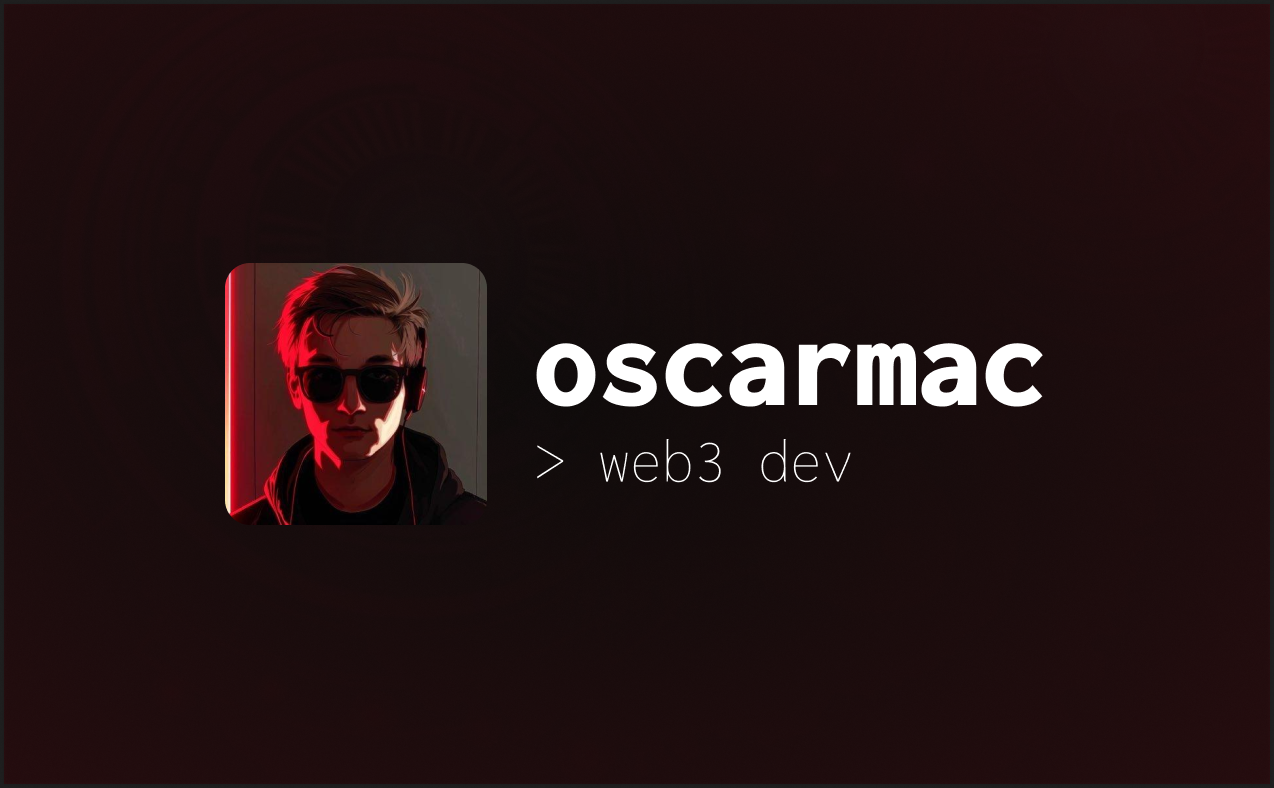
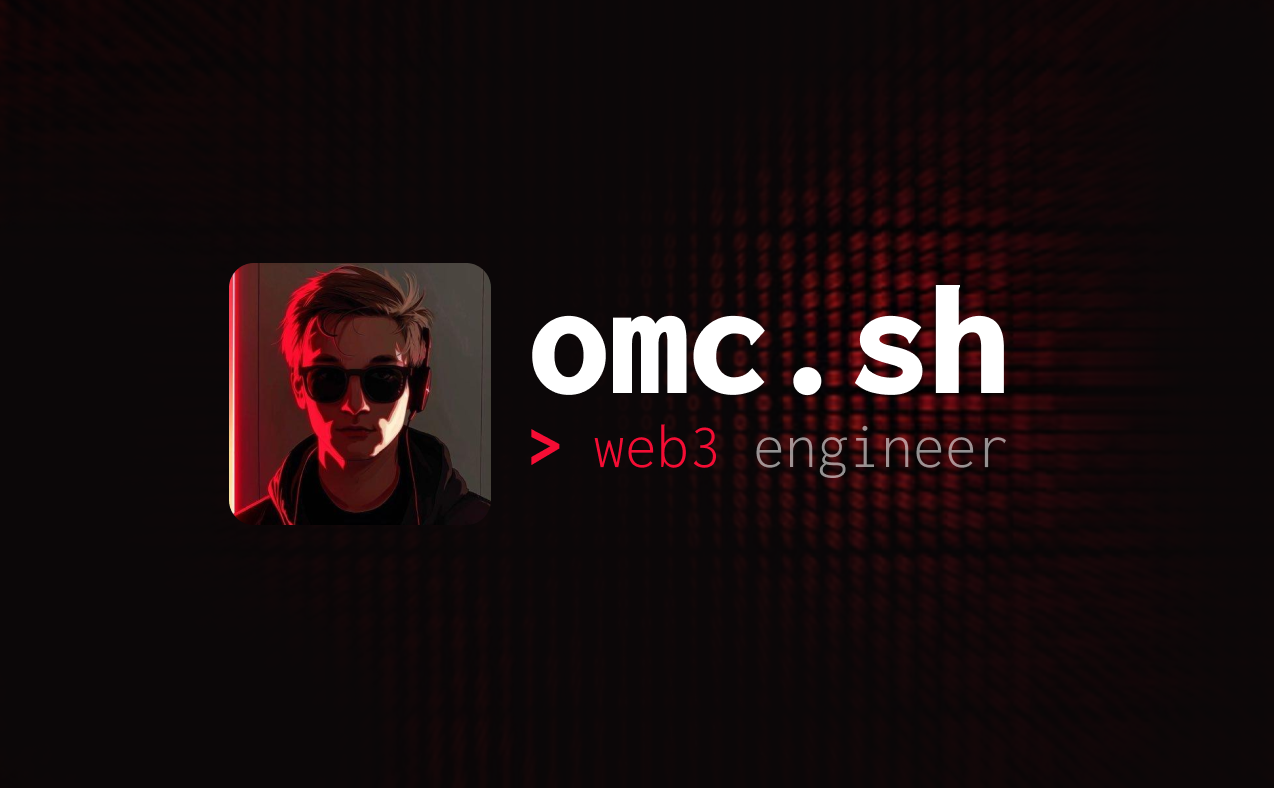
feat: prod url change

diff --git a/src/lib/site-config.ts b/src/lib/site-config.ts
@@ -1,9 +1,8 @@
 export const SITE_CONFIG = {
-  name: "oscarmac",
+  name: "omc.sh",
   description:
     "innovative fullstack developer specialized in defi and blockchain applications",
-  productionUrl: "https://oscarmac.xyz",
-  domain: "oscarmac.xyz",
+  productionUrl: "https://omc.sh",
   appIcon: "/images/icon.png",
   brand: {
     primary: "#FF0000",
